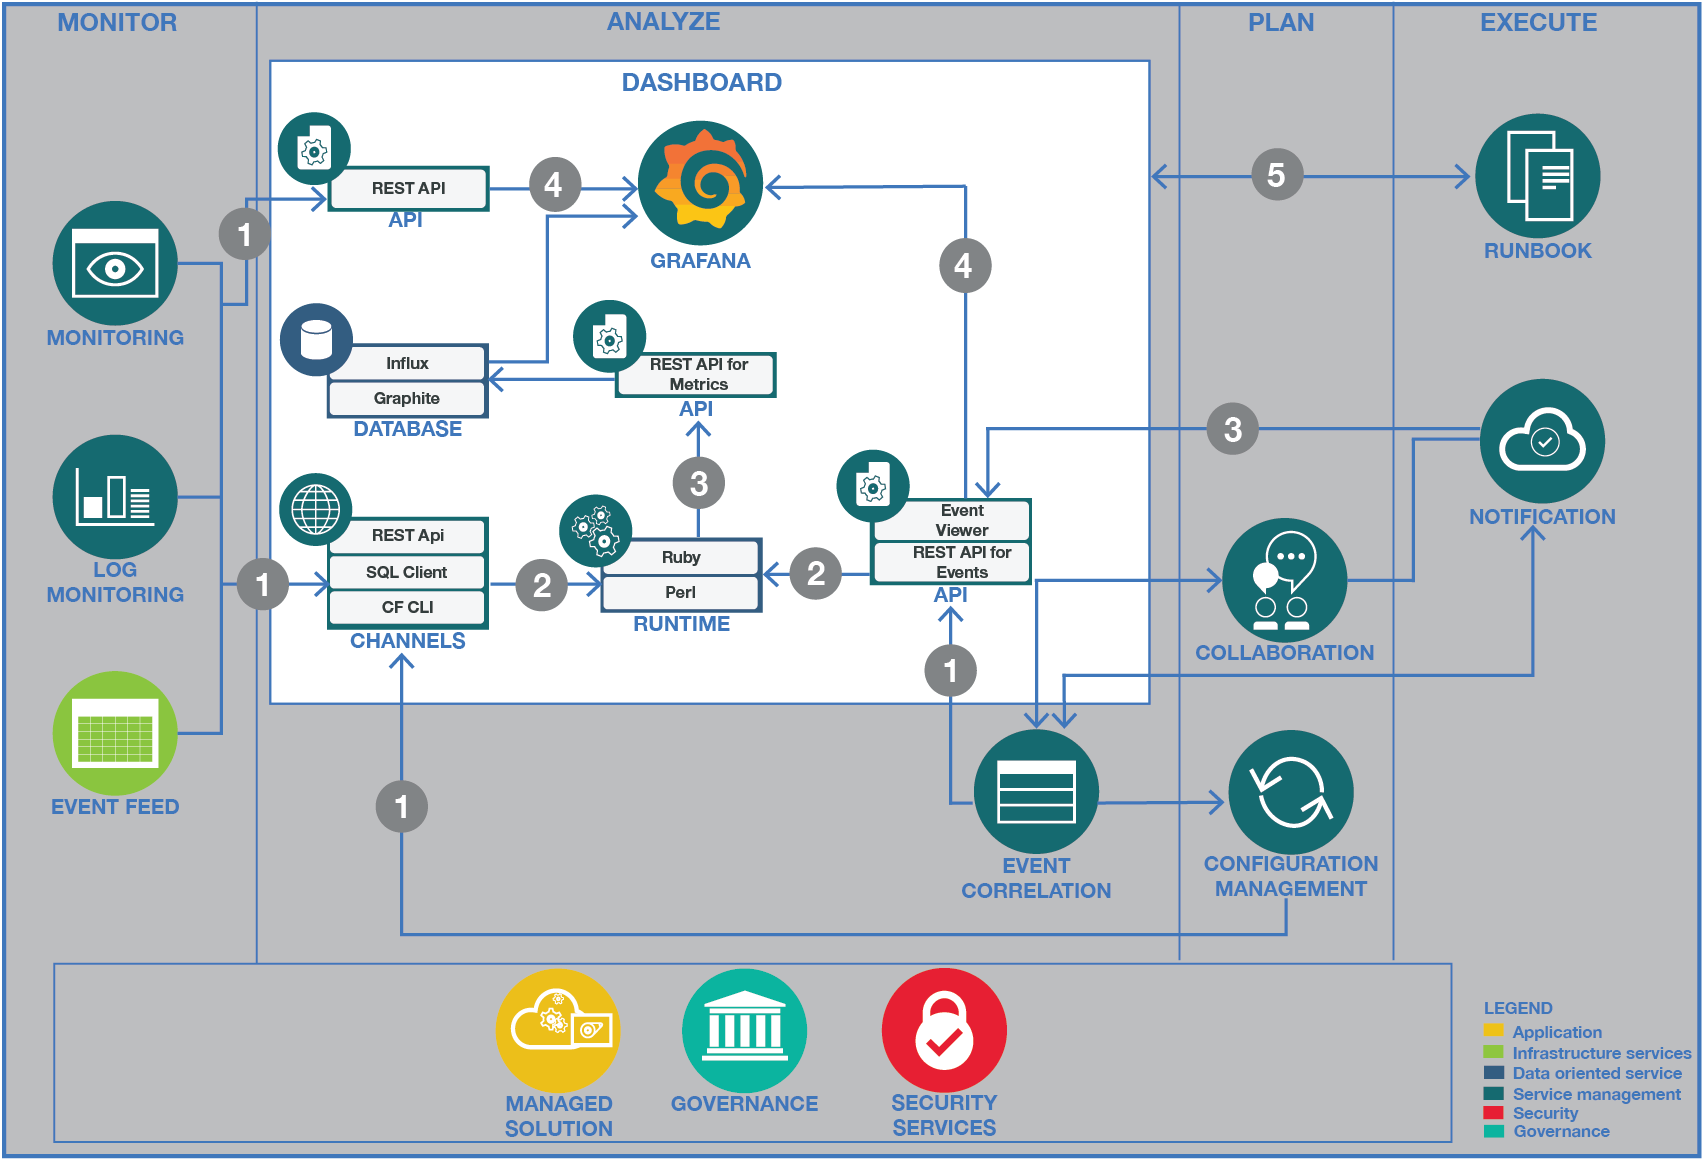
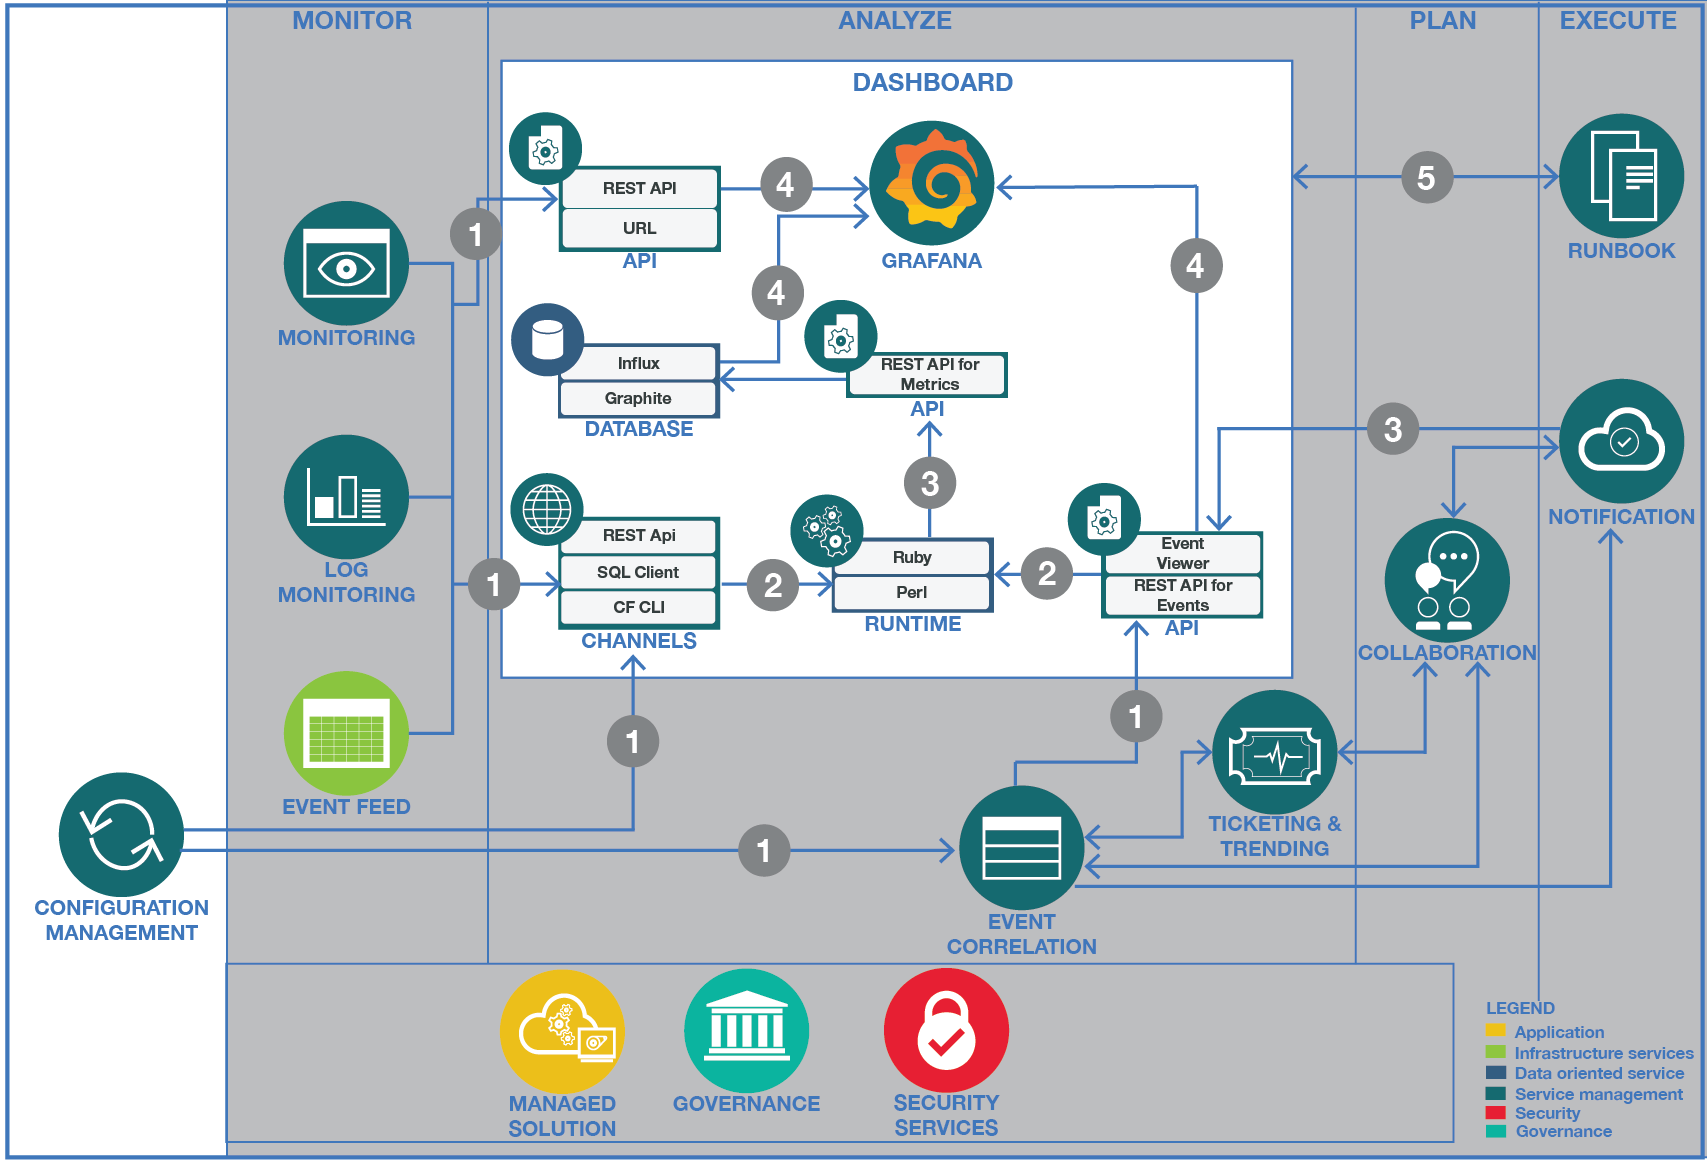
Arundhati updated the hybrid images

diff --git a/doc/Incident_Management_Implementation.md b/doc/Incident_Management_Implementation.md
@@ -10,7 +10,7 @@ Authors:
 
 The tools in the Incident Management solution are implemented to provide an end-to-end view of application. You may choose to use multiple tools to handle different functionality of the application. The below picture shows multiple tools that manages cloud native as well as hybrid application.
 
-![CSMO Incident Management Implementation](../static/imgs/Cloud_Service_Management_Incident_with_Tools_BLUE_IBM.png?raw=true)  
+![CSMO Incident Management Implementation](../static/imgs/Cloud_Service_Management_Incident_Mgmt_with_Tools.png?raw=true)  
 
 ### Reference Tools Mapping 
 
@@ -95,7 +95,7 @@ The following flow describes the setup and operations of this solution in an ove
 
 #### System Context Flow for IBM Alert Notification System
 
-![System Context Flow Grafana](../static/imgs/Notification/ANS/Cloud_Service_Management-AlertNotification.png?raw=true)
+![System Context Flow Grafana](../static/imgs/Notification/ANS/Cloud_Service_Management-AlertNotification_Hybrid.png?raw=true)
 
 The above figure shows the deep dive of ANS and its various components and various integrated tools for incident management and their interactions. 
 

diff --git a/README.md b/README.md
@@ -20,7 +20,7 @@ For more details on this reference architecture visit the [Architecture Center f
 
 ## Sample Tools Implementation
 
-See sample [Tools Implementation Guide](doc/README.md) of Incident Management solution for a hybrid application
+See sample [Tools Implementation Guide](doc/Incident_Management_Implementation.md) of Incident Management solution for a hybrid application
 
 
  
